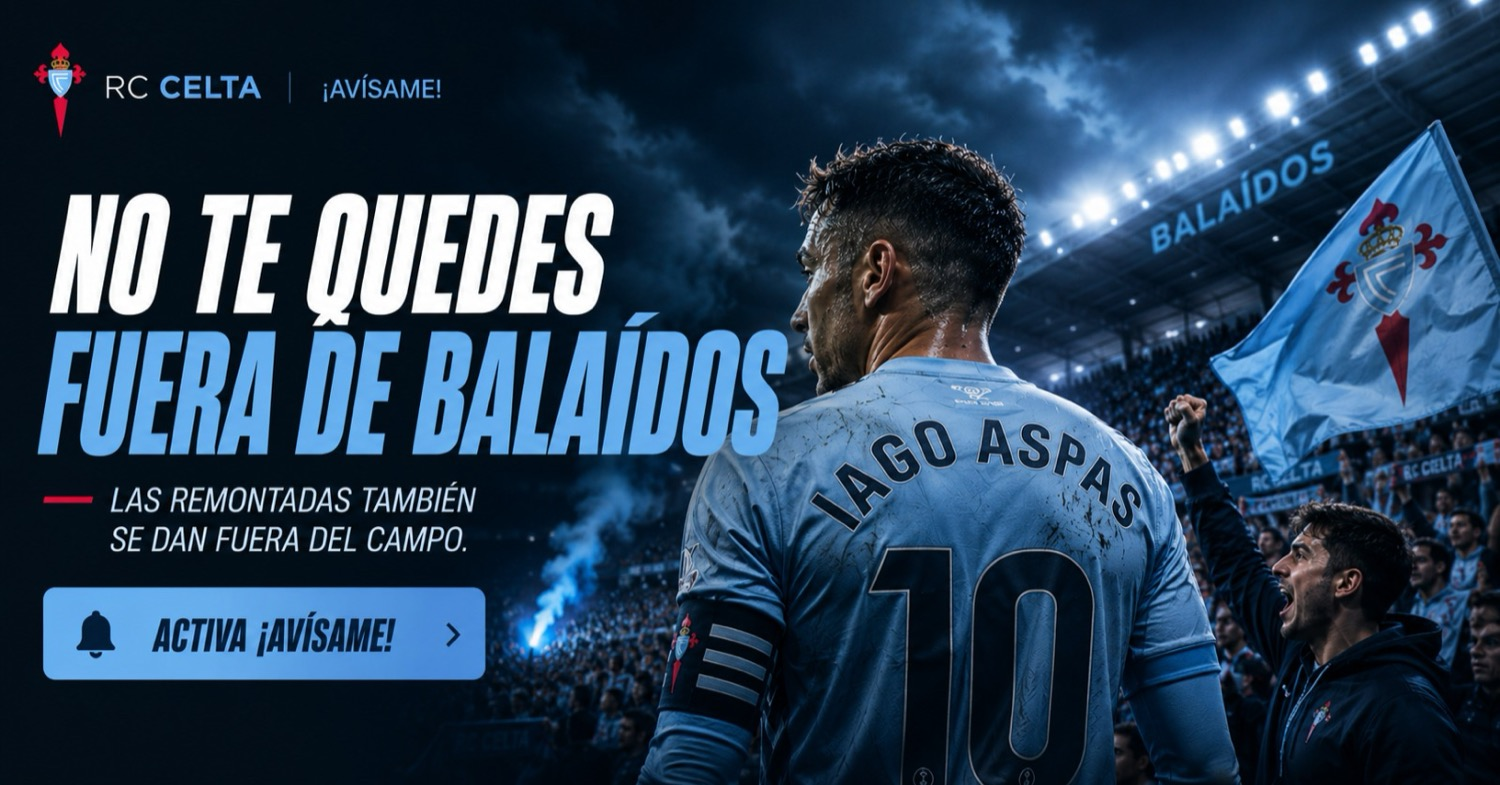
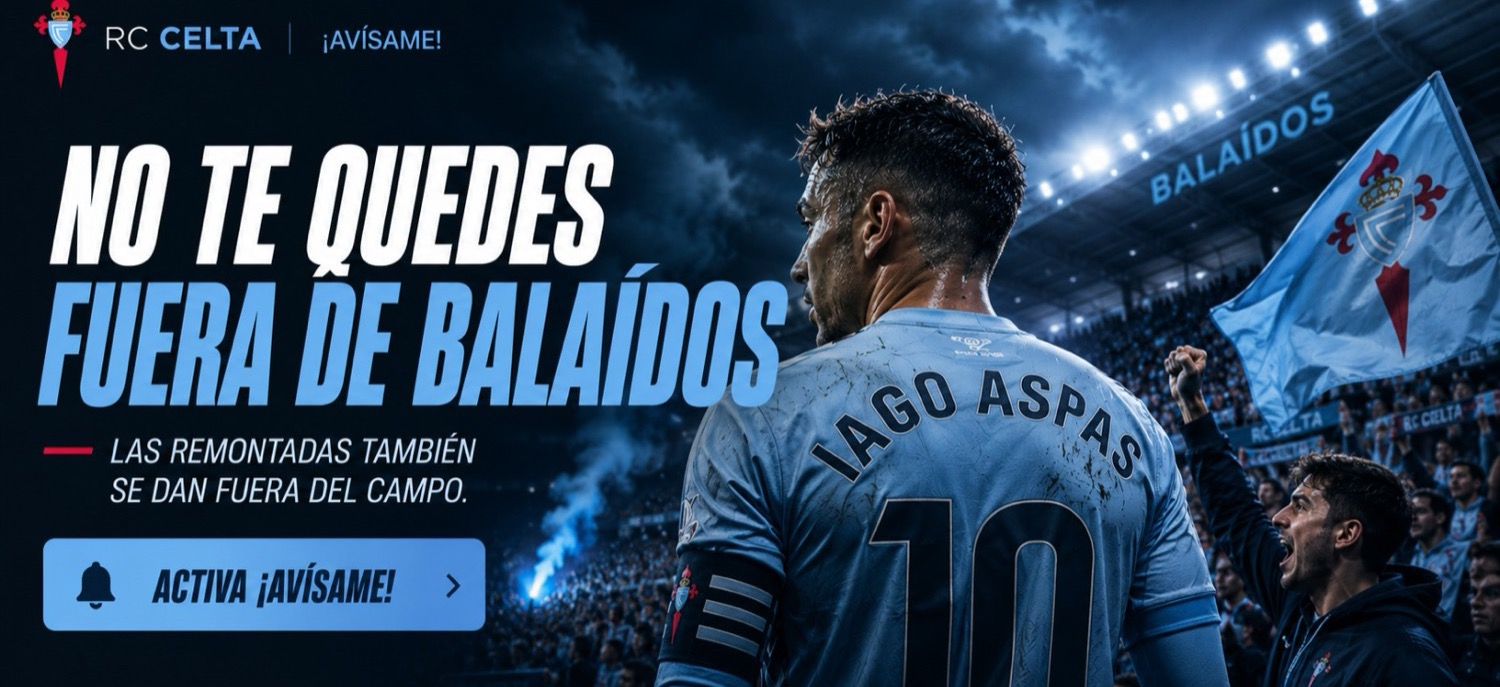
Spanish hero: center-crop to 1500x687 to match EN/GL aspect ratio
Source files came in slightly different shapes — Spanish at 1.91:1 and
EN/GL at 2.18:1 — so at 1100px the Spanish hero rendered ~70px taller
than the others, making language-switching jarring.

Trimmed 49px off top + bottom of the Spanish image. Logo and CTA button
both have enough padding inside the original that nothing meaningful was
lost. Cache buster bumped to v=5.

diff --git a/landing.html b/landing.html
@@ -45,7 +45,7 @@
     <link rel="mask-icon" href="assets/rc%20celta%20logo.png" color="#7ab1d9" />
 
     <!-- Perf: preload + prefetch -->
-    <link rel="preload" as="image" fetchpriority="high" href="assets/hero-spanish.jpg?v=4" />
+    <link rel="preload" as="image" fetchpriority="high" href="assets/hero-spanish.jpg?v=5" />
     <link rel="dns-prefetch" href="https://student.us15.list-manage.com" />
     <link rel="preconnect" href="https://student.us15.list-manage.com" />
     <link rel="preconnect" href="https://fonts.googleapis.com" />
@@ -2306,7 +2306,7 @@
       <img
         id="main-content"
         class="hero__photo"
-        src="assets/hero-spanish.jpg?v=4"
+        src="assets/hero-spanish.jpg?v=5"
         alt="Aficionados del RC Celta animando en Balaídos con la bandera del club"
         fetchpriority="high"
         decoding="async"
@@ -3136,7 +3136,7 @@
             "hero.title": "Tu sitio en Balaídos te está esperando",
             "hero.lead": "Cuando se libere una entrada en tu grada, te lo decimos al instante. Tú a lo tuyo: nosotros vigilamos por ti. ⚽",
             "hero.cta": "Apúntame",
-            "hero.image": "assets/hero-spanish.jpg?v=4",
+            "hero.image": "assets/hero-spanish.jpg?v=5",
             "hero.imageAlt": "Aficionados del RC Celta animando en Balaídos con la bandera del club",
             "form.introTitle": "Solo 4 campos y listo",
             "form.introHint": "Te ponemos en la lista en menos de 30 segundos.",
